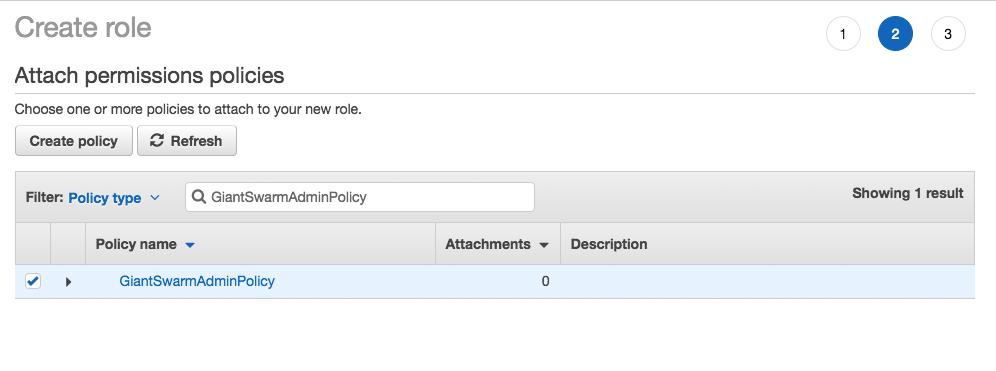
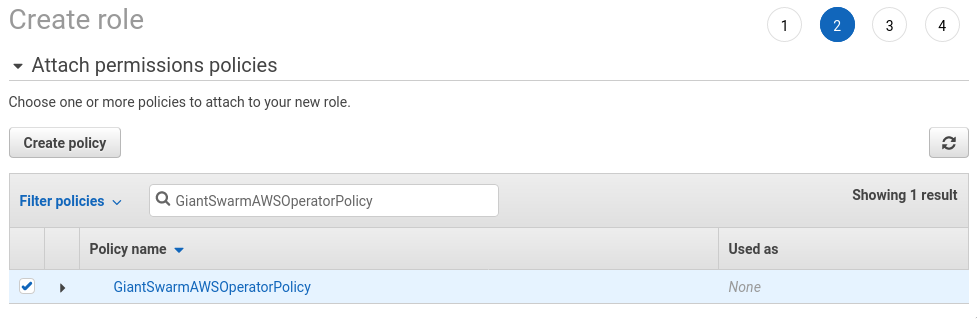
Update aws cluster docs (#415)

diff --git a/src/content/guides/prepare-aws-account-for-tenant-clusters/index.md b/src/content/guides/prepare-aws-account-for-tenant-clusters/index.md
@@ -1,38 +1,42 @@
 +++
-title = "Prepare an AWS account to run Giant Swarm tenant clusters"
-description = "This guide will walk you through all necessary steps to set up an Amazon AWS account with appropriate IAM roles for operating Giant Swarm tenant clusters."
+title = "Prepare an AWS account to run Giant Swarm clusters"
+description = "This guide will walk you through all necessary steps to set up an Amazon AWS account with appropriate IAM roles for operating Giant Swarm clusters."
 date = "2019-10-25"
 type = "page"
 weight = 100
 tags = ["tutorial"]
 +++
 
-# Prepare an AWS account to run Giant Swarm tenant clusters
+# Prepare an AWS account to run Giant Swarm clusters
 
 As detailed in the [Architecture](/basics/aws-architecture/) docs,
 the tenant clusters (the clusters running your Kubernetes workloads) in a Giant
 Swarm installation are running in an AWS account separate from the control plane.
 This gives great flexibility depending on the requirements and the usage
 scenario. For example, it allows the control plane to be running in an AWS account
-owned by Giant Swarm, while tenant clusters operate in different AWS accounts
-each, depending on a customer's department using them.
+dedicated to it, whilst tenant clusters operate in separate AWS accounts, depending
+on a customer's department using them.
 
 ## Overview
 
-In order to run Giant Swarm tenant clusters, an AWS account needs to fulfill
+In order to run Giant Swarm clusters, the AWS account(s) need to fulfill
 these requirements:
 
-- Service limits set according to requirements
-- IAM role to be assumed by our aws-operator software
-- IAM role to be assumed by Giant Swarm staff
+- Control plane account:
+  - IAM _user_ to be used by our `aws-operator` software.
+  - IAM role to be assumed by Giant Swarm staff.
+- Tenant cluster account:
+  - Service limits set according to requirements.
+  - IAM _role_ to be assumed by our `aws-operator` software.
+  - IAM role to be assumed by Giant Swarm staff.
 
 Each Giant Swarm tenant cluster belongs to an organization within Giant Swarm.
 This organization will later be configured with information about the two
-IAM roles mentioned above.
+tenant cluster IAM roles mentioned above.
 
 We have created a Terraform module to automate the IAM role creation. You can check the code [here](https://github.com/giantswarm/giantswarm-aws-account-prerequisites). Otherwise you can still use the steps as described in this guide.
 
-## Increase service limits in AWS {#limits}
+## Increase service limits in an AWS tenant cluster account {#limits}
 
 A number of limits apply to an AWS account initially, which are described in the
 [AWS Service Limits documentation](https://docs.aws.amazon.com/general/latest/gr/aws_service_limits.html).
@@ -89,17 +93,79 @@ for a short time during update, hence the 500 Launch Configurations.
 > The number of EC2 instances used as worker nodes is supposed to be scaled
 dynamically based on traffic, hence the high numbers of EC2 instances requested.
 
+## IAM setup for control plane accounts
 
+The following steps must all take place in the control plane AWS account.
 
-## Create an IAM role for aws-operator {#operator-iam-role}
+### Create an IAM user for aws-operator {#operator-iam-user}
 
 Giant Swarm's service creating and maintaining your tenant clusters is
 called [aws-operator](https://github.com/giantswarm/aws-operator). It is
-running in the control plane. In order to handle resources in your AWS account,
-it needs to assume a prepared IAM role in your AWS account. Here we explain all
-the required steps to set up this role.
+running in the control plane. In order to handle resources in your AWS Tenant
+Cluster account, it needs a prepared IAM user in your AWS control plane
+account. Here we explain all the required steps to set up this user.
 
-### 1. Determine the control plane's AWS account ID
+#### 1. Basic user setup
+
+First, log in to the AWS console for your AWS account. Then open the
+[IAM section](https://console.aws.amazon.com/iam/home) of the AWS console and
+go to the [Users](https://console.aws.amazon.com/iam/home#/users) subsection.
+
+Now hit the **Add user** button. Enter the user name as `aws-operator` and ensure
+only _Programmatic access_ is enabled.
+
+![AWS IAM console: Create user](/img/aws-user-create-user.png)
+
+#### 2. Permissions setup
+
+In the **Attach existing policies directly** section, hit the **Create policy** button.
+
+Paste the JSON code from [tenant_cluster.json](https://raw.githubusercontent.com/giantswarm/aws-operator/master/policies/tenant_cluster.json) into the JSON editor field and then hit the **Review policy** button.
+
+In the next step you have to assign a name to the policy. Please use the name:
+
+```nohighlight
+GiantSwarmAWSOperatorPolicy
+```
+
+Entering a description will also help distinguish the policy to other people.
+We suggest:
+
+> Policy required for the Giant Swarm AWS Operator.
+
+#### 3. Attach policy to user
+
+Once you created the policy, let's turn back to the point in the user creation
+called *Attach existing policies directly*. Here you can now hit the *Refresh*
+button to load all existing policies, then enter `GiantSwarmAWSOperatorPolicy`
+into the search field to select the policy you just created. Check the box in
+the row containing that policy.
+
+![AWS IAM console: Attach policy to user](/img/aws-user-attach-policy.png)
+
+Then proceed to the *Review* step.
+
+#### 4. Review and create user
+
+Please now review the user. Provided everything is correct, hit the *Create*
+button. On the following page, you will be presented with an *Access key ID* and
+a *Secret access key*. Click the 'show' link to display the access key secret,
+and then copy both the key ID and key secret; these will need to be provided to
+us later.
+
+![AWS IAM console: User secrets](/img/aws-user-secrets.png)
+
+## IAM setup for tenant cluster accounts
+
+The following steps must all take place in the tenant cluster AWS account.
+
+### Create an IAM role for aws-operator {#operator-iam-role}
+
+As `aws-operator` runs in the control plane account, it requires a role to assume
+in the tenant cluster account in order to manage tenant cluster resources. Here we
+explain the steps required to set up this role.
+
+#### 1. Determine the control plane's AWS account ID
 
 First you need to know in which AWS account the Giant Swarm control plane is
 (or will be) running. As Giant Swarm's customer you might have already decided
@@ -108,7 +174,7 @@ this yourself. Normally you yourself own this account.
 Please have the ID of the account selected to run the control plane at hand, as
 you will need it in step 2.
 
-### 2. Basic role setup
+#### 2. Basic role setup
 
 First, log in to the AWS console for your AWS account. Then open the
 [IAM section](https://console.aws.amazon.com/iam/home) of the AWS console and
@@ -126,19 +192,19 @@ remain unchecked!
 
 Proceed to the next step to set up permissions.
 
-### 3. Permissions setup
+#### 3. Permissions setup
 
 In the **Attach permissions policies** section, hit the **Create policy** button.
 
 Paste the JSON code from [tenant_cluster.json](https://raw.githubusercontent.com/giantswarm/aws-operator/master/policies/tenant_cluster.json) into the JSON editor field and then hit the **Review policy** button.
 
-In the next step you have to assign a name to the policy. Please use the name 
+In the next step you have to assign a name to the policy. Please use the name
 
 ```nohighlight
 GiantSwarmAWSOperatorPolicy
 ```
 
-### 4. Attach policy to role
+#### 4. Attach policy to role
 
 Once you created the policy, let's turn back to the point in role creation called
 *Attach permissions policies*. Here you can now hit the *Refresh* button to load
@@ -150,7 +216,7 @@ that policy.
 
 Then proceed to the next step.
 
-### 5. Name the role
+#### 5. Name the role
 
 The last step of role creation requires you to set a name for the role. Please
 set the name to `GiantSwarmAWSOperator`.
@@ -161,7 +227,7 @@ You may also set a description for team members to better understand the reasons
 for the existence of this role. It could be helpful to also paste a link to this
 guide into the field for reference.
 
-### 6. Get the role's ARN
+#### 6. Get the role's ARN
 
 After creating the new role, you should have a list of all IAM roles in front of
 you. From that list, open the `GiantSwarmAWSOperator` role you just created.
@@ -176,61 +242,59 @@ arn:aws:iam::<YOUR_ACCOUNT_ID>:role/GiantSwarmAWSOperator
 Please copy the exact ARN from the screen, as you will have to provide it to us
 later.
 
-## Create an IAM role for Giant Swarm staff {#operator-iam-role}
+### Create an IAM role for Giant Swarm staff {#gs-staff-iam-role}
 
-The second IAM role to be created is similar to the one before, but in this case
-it is used by Giant Swarm support staff. The main differences will be that this
-role must have Giant Swarm's account as a trusted entity, instead of the account
-running the control plane, and it can have multi-factor authentication enabled.
+Finally, we create an IAM role for Giant Swarm support staff to assume in order to
+access the control plane AWS account. This role must have Giant Swarm's account
+as a trusted entity, and we recommend that it enforces multi-factor authentication.
 
-### 1. Basic role setup
+Giant Swarm staff require access to **all** accounts, so **the following steps must
+be duplicated in both the control plane and tenant cluster accounts**.
 
-- Like above, go to the [Roles](https://console.aws.amazon.com/iam/home#/roles)
+#### 1. Basic role setup
+
+- Go to the [Roles](https://console.aws.amazon.com/iam/home#/roles)
 subsection of the AWS console and select **Create role**. When asked to
-**Select type of trusted entity** chose **Another AWS account**.
+**Select type of trusted entity** choose **Another AWS account**.
 
 - In **Account ID** enter the value `084190472784`.
 
-- As above, **do not** enable **Require external ID**.
+- **Do not** enable **Require external ID**.
 
-- Different from above, instead, we strongly recommended to check the option
-  **Require MFA** (multi factor authorization). This adds an extra
-  authentication step for users to assume the role, which increases security.
+- We strongly recommended to check the option **Require MFA** (multi factor
+  authentication). This adds an extra authentication step for users to assume the
+  role, which increases security.
 
-### 2. Permission setup
+#### 2. Permission setup
 
 Select **Create policy** to create another policy. Use the same JSON policy code
-as before. This time, call the policy
+as you used for the `aws-operator` user. This time, call the policy
 
 ```nohighlight
 GiantSwarmAdminPolicy
 ```
 
-**Background**: We ask you to create two distinct, but identical, IAM roles at
-this point. This enables you to later adjust permissions independently if the
-need arises.
-
-### 3. Attach policy to role
+#### 3. Attach policy to role
 
 Attach the new `GiantSwarmAdminPolicy` policy to the role you are creating.
 
-### 4. Name the role
+#### 4. Name the role
 
-Name this role
+Name this role:
 
 ```nohighlight
 GiantSwarmAdmin
 ```
-    
-accordingly.
 
-### 5. Get the role's ARN
+#### 5. Get the role's ARN
 
-From the conformation screen, copy the exact ARN again. It should be in the form of
+From the confirmation screen, copy the exact ARN. It should be in the form of:
 
 ```nohighlight
 arn:aws:iam::<YOUR_ACCOUNT_ID>:role/GiantSwarmAdmin
 ```
+
+This will need to be provided to us later.
 
 ## Configure the Giant Swarm organization {#configure-org}
 
